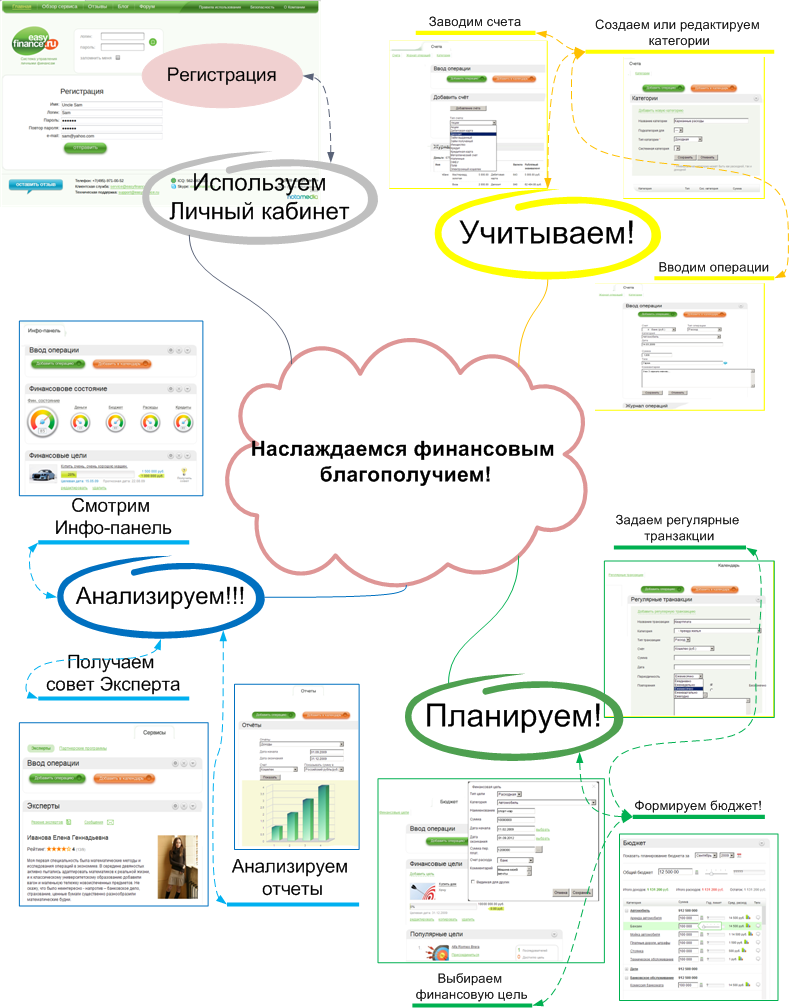
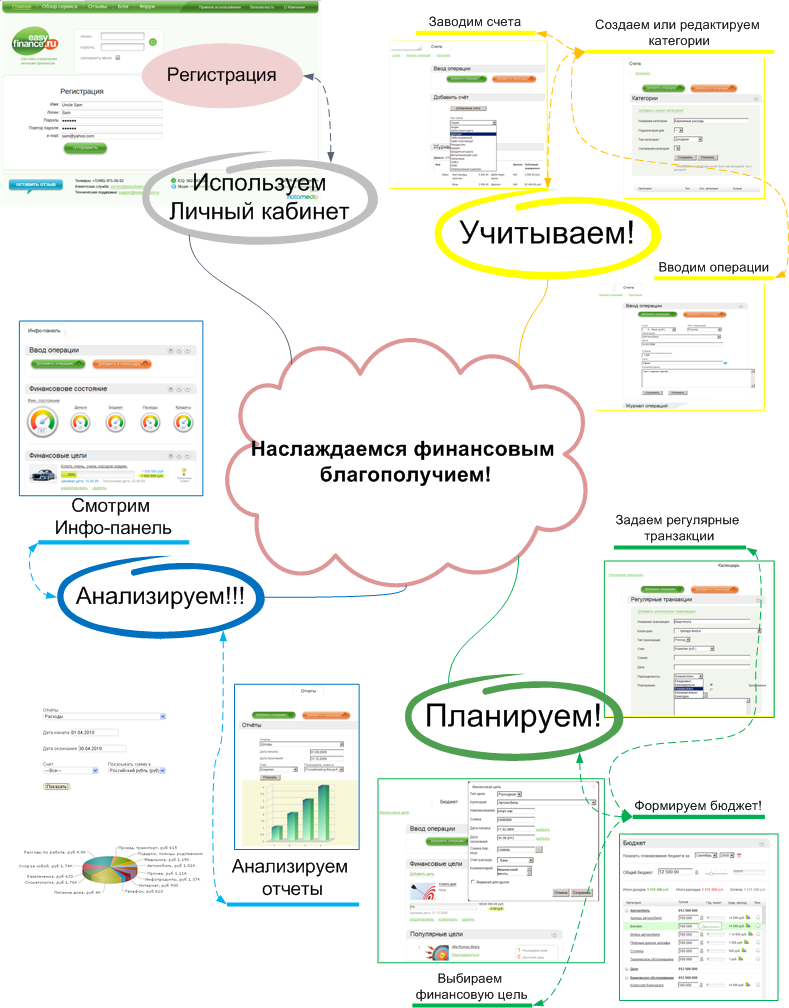
t1180 В обзоре сервиса картинку эксперта заменил на отчет
Max: объединил 3 коммита

Changed region(s): [[0.0304, 0.6458, 0.2738, 0.9226]]

diff --git a/views/header/head.html b/views/header/head.html
@@ -60,10 +60,10 @@
             <div id="menumain"  value="{$head_val}">
                 <ul class="menu1">
                     <!-- Jet. ticket #273 -->
-                    <li class="first"><a href="http://{$smarty.const.URL_ROOT_MAIN}review/" id="review">Обзор</a></li>
-                    <li><a href="http://{$smarty.const.URL_ROOT_MAIN}feedback/" id="feed">Отзывы</a></li>
-                    <li><a href="http://easyfinance-ru.livejournal.com/" id="blog" target="_blank">Блог</a></li>
-                    <li><a href="http://{$smarty.const.URL_ROOT_MAIN}articles/" id="articles">Статьи</a></li>
+                    <li class="first"><a href="https://{$smarty.const.URL_ROOT_MAIN}review/" id="review">Обзор</a></li>
+                    <li><a href="https://{$smarty.const.URL_ROOT_MAIN}feedback/" id="feed">Отзывы</a></li>
+                    <li><a href="https://easyfinance-ru.livejournal.com/" id="blog" target="_blank">Блог</a></li>
+                    <li><a href="https://{$smarty.const.URL_ROOT_MAIN}articles/" id="articles">Статьи</a></li>
                     <li><a href="https://m.{$smarty.const.URL_ROOT_MAIN}" id="pda">Мобильная версия</a></li>
                     <li><a href="https://{$smarty.const.URL_ROOT_MAIN}articles/12" id="help" style="font-weight:bold; color: yellow;">Помощь</a></li>
                 </ul>

diff --git a/views/review.html b/views/review.html
@@ -59,7 +59,7 @@
 </div>
 
 <div class="expertView" title="Нажмите для увеличения">
-    <a id="aExpertView" class="fancy" href="/img/i/review/expertviewbig.png" title="Эксперты"></a>
+    <a id="aExpertView" class="fancy" href="/img/i/review/reportcirclebig.png" title="Отчёты"></a>
 <!--
 <div class="popup_map2"><div style="overflow: hidden; display: none; position: absolute; z-index: 1002; outline-color: -moz-use-text-color; outline-style: none; outline-width: 0px; height: auto; top: -10px; left: -270px;" class="w_dialog mapContent7"><div class="link close"></div><div class="w_d_head"></div><div class="w_d_body">
 <img src="/img/i/review/expertviewbig.png" /><p></p></div><div class="w_d_foot"></div></div></div>
